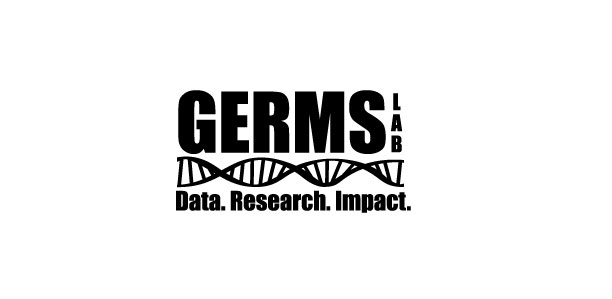
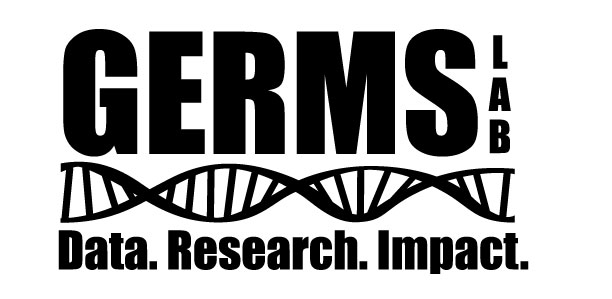
fixing

diff --git a/_sass/page.scss b/_sass/page.scss
@@ -112,8 +112,8 @@ body {
 }
 .site-logo {
 	img {
-		width: 100px;
-		height: 100px;
+		width: 600px;
+		height: 200px;
 		-webkit-animation-duration: 1s;
 		-moz-animation-duration: 1s;
 		-o-animation-duration: 1s;
@@ -122,18 +122,6 @@ body {
 	    -moz-animation-delay: .05s;
 	    -o-animation-delay: .05s;
 	    animation-delay: .05s;
-	    border: 4px solid $white;
-	    @include rounded(100px);
-		@media #{$medium} {
-			width: 150px;
-			height: 150px;
-			@include rounded(150px);
-		}
-		@media #{$large} {
-			width: 200px;
-			height: 200px;
-			@include rounded(200px);
-		}
 	}
 }
 .site-title {
